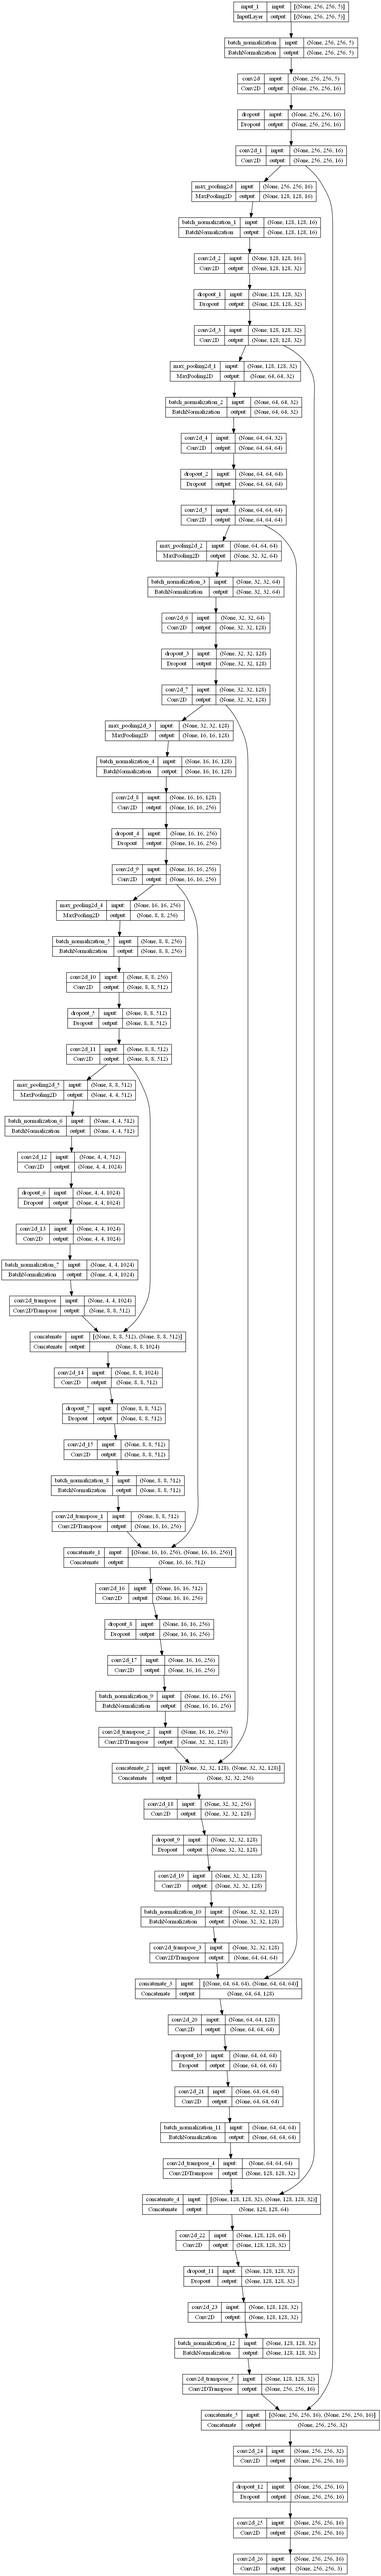
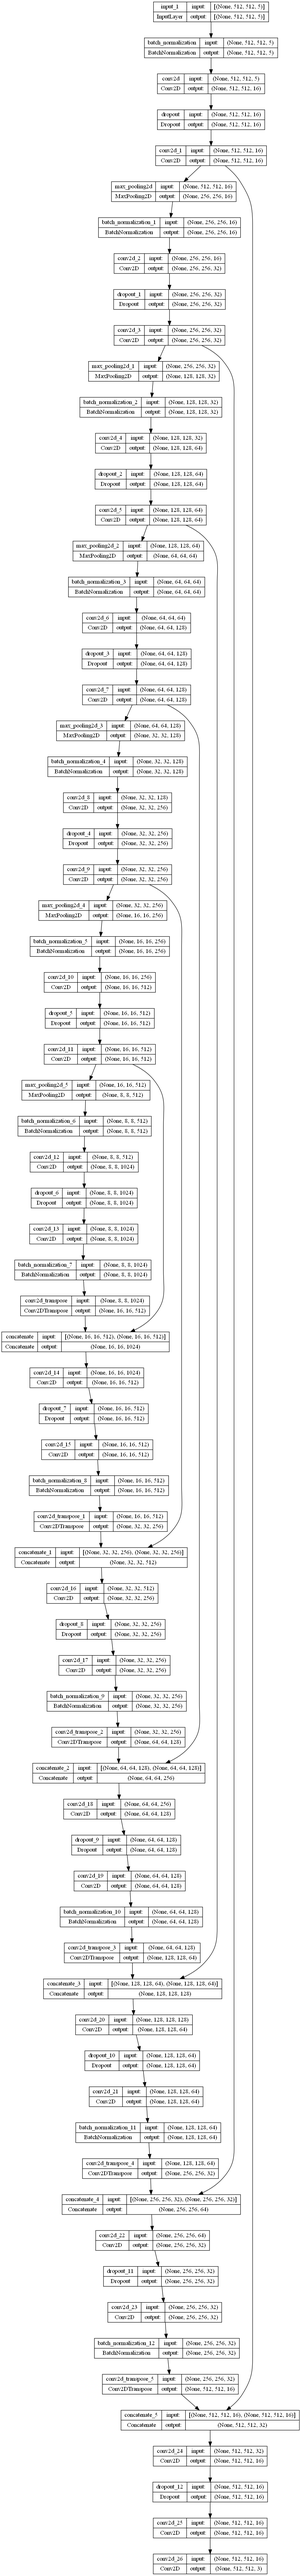
train model with 512 size

Changed region(s): [[0.0302, 0.0, 0.9061, 1.0], [0.8155, 0.0934, 0.8759, 0.9032]]

diff --git a/models/wsl/data.py b/models/wsl/data.py
@@ -6,7 +6,7 @@ from tqdm import tqdm
 import random
 import os
 
-from models.common_utils.images import load_ndwi_edge_map
+from models.common_utils.images import load_ndwi_edge_map, stack_rgb_ndwi_edges
 
 def load_drone_dataset(path, file_extension = "jpg", num_channels=5):
     total_images = len(os.listdir(path))
@@ -22,44 +22,49 @@ def load_drone_dataset(path, file_extension = "jpg", num_channels=5):
     x_test, y_test = load_drone_images(test_paths, channels=num_channels)
     return (x_train, y_train),(x_test, y_test)
 
-def load_drone_images(paths, channels=3):
-    images = np.zeros(shape=(len(paths), 256, 256, channels))
-    masks = np.zeros(shape=(len(paths), 256, 256, 3))
+def load_drone_images(size, paths, channels=3):
+    (width, height) = size
+    images = np.zeros(shape=(len(paths), height, width, channels))
+    masks = np.zeros(shape=(len(paths), height, width, 3))
     for i, path in tqdm(enumerate(paths), total=len(paths), desc="Loading"):
-        image = get_image(path)
+        image = get_image(size, path)
         images[i] = image
         mask_path = path.replace("images", "annotations")
         mask_path = mask_path.replace(".jpg", ".png")
-        mask = load_image(mask_path)
+        mask = load_image(size, mask_path)
         masks[i] = mask
     return images, masks
 
-def load_image(path: str):
+def load_image(size, path: str):
     img = load_img(path)
     img_array = img_to_array(img)
     normalized_img_array = img_array/255.
-    resized_img = tf.image.resize(normalized_img_array, (256, 256), method=tf.image.ResizeMethod.NEAREST_NEIGHBOR)
+    resized_img = tf.image.resize(normalized_img_array, size, method=tf.image.ResizeMethod.NEAREST_NEIGHBOR)
     return resized_img
 
-def format_image(img):
+def format_image(size, img):
     img_array = img_to_array(img)
     normalized_img_array = img_array/255.
-    resized_img = tf.image.resize(normalized_img_array, (256, 256), method=tf.image.ResizeMethod.NEAREST_NEIGHBOR)
+    resized_img = tf.image.resize(normalized_img_array, size, method=tf.image.ResizeMethod.NEAREST_NEIGHBOR)
     return resized_img
 
-def get_image(path):
+def get_image(size, path):
     image_data = load_ndwi_edge_map(path)
-    rgb = format_image(image_data['rgb'])
+    rgb = format_image(size, image_data['rgb'])
     # print(f'RGB shape: {rgb.shape}')
-    ndwi = format_image(image_data['ndwi'])
+    ndwi = format_image(size, image_data['ndwi'])
     # print(f'NDWI shape: {ndwi.shape}')
-    edges = format_image(image_data['edge_map'])
+    edges = format_image(size, image_data['edge_map'])
     # print(f'EDGE map shape: {edges.shape}')
     stacked_image = np.dstack((rgb, ndwi, edges))
     # print(f'Stacked image shape: {stacked_image.shape}')
     return stacked_image
 
-def load_dataset(path, file_extension = "JPG", num_channels=5, percentage=0.7):
+def get_stacked_image(path, size):
+    stacked_image = stack_rgb_ndwi_edges(path)
+    return stacked_image
+
+def load_dataset(path, size = (256, 256), file_extension = "JPG", num_channels=5, percentage=0.7):
     total_images = len(os.listdir(path))
     print(f'total number of images in path is {total_images}')
     all_image_paths = sorted(glob(path + "/*."+file_extension))
@@ -68,15 +73,16 @@ def load_dataset(path, file_extension = "JPG", num_channels=5, percentage=0.7):
     train_size = int(len(all_image_paths) * percentage)
     train_paths = all_image_paths[:train_size]
     print(f"train image count : {len(train_paths)}")
-    x_train, y_train = load_drone_images(train_paths, channels=num_channels)
+    x_train, y_train = load_drone_images(size, train_paths, channels=num_channels)
     test_paths = all_image_paths[train_size:]
     print(f"test image count : {len(test_paths)}")
-    x_test, y_test = load_drone_images(test_paths, channels=num_channels)
+    x_test, y_test = load_drone_images(size, test_paths, channels=num_channels)
     return (x_train, y_train),(x_test, y_test)
 
 if __name__ == "__main__":
     sample_image = "../../data/samples/sample1.JPG"
-    get_image(sample_image)
-    img = load_image(sample_image)
+    size = (256, 256)
+    get_image(size, sample_image)
+    img = load_image(size, sample_image)
     print(f'Image shape: {img.shape}')
 

diff --git a/models/wsl/train_model.py b/models/wsl/train_model.py
@@ -20,7 +20,7 @@ LOG_DIR = "C:\\Users\AdikariAdikari\PycharmProjects\Segmentation\models\\wsl\log
 CKPT_DIR = "C:\\Users\AdikariAdikari\PycharmProjects\Segmentation\models\\wsl\ckpt"
 OUTPUT_DIR = "C:\\Users\AdikariAdikari\PycharmProjects\Segmentation\models\\wsl\output"
 
-def train_model(epoch_count, X_train, y_train, X_val, y_val, num_channels, restore=True):
+def train_model(epoch_count, X_train, y_train, X_val, y_val, num_channels, size = (256, 256), restore=True):
     print(f'X_train shape : {X_train.shape}')
     print(f'y_train shape : {y_train.shape}')
 
@@ -42,7 +42,7 @@ def train_model(epoch_count, X_train, y_train, X_val, y_val, num_channels, resto
     print("Number of devices: {}".format(strategy.num_replicas_in_sync))
 
     with strategy.scope():
-        model = make_or_restore_model(restore, num_channels)
+        model = make_or_restore_model(restore, num_channels, size)
 
     history = model.fit(
                     X_train,
@@ -70,7 +70,8 @@ def train_model(epoch_count, X_train, y_train, X_val, y_val, num_channels, resto
     plt.show()
     return None
 
-def make_or_restore_model(restore, num_channels):
+def make_or_restore_model(restore, num_channels, size):
+    (width, height) = size
     if restore:
         checkpoints = [os.path.join(CKPT_DIR, name) for name in os.listdir("ckpt")]
         print(f"Checkpoints: {checkpoints}")
@@ -80,10 +81,10 @@ def make_or_restore_model(restore, num_channels):
             return keras.models.load_model(latest_checkpoint)
         else:
             print("Creating fresh model")
-            return unet_model(256, 256, num_channels)
+            return unet_model(width, height, num_channels)
     else:
         print("Creating fresh model")
-        return unet_model(256, 256, num_channels)
+        return unet_model(width, height, num_channels)
 
 def load_with_trained_model(X_val, y_val):
     checkpoints = [os.path.join(CKPT_DIR, name) for name in os.listdir("ckpt")]
@@ -139,7 +140,7 @@ if __name__ == "__main__":
     print(tf.executing_eagerly())
     epochs = 100
     if len(physical_devices) > 0:
-        (X_train, y_train), (X_val, y_val) = load_dataset("../../input/samples/crookstown/images", file_extension="jpg", num_channels=5, percentage=0.7)
-        # train_model(epochs, X_train, y_train, X_val, y_val, 5, restore=False)
+        (X_train, y_train), (X_val, y_val) = load_dataset("../../input/samples/crookstown/images", size = (512, 512), file_extension="jpg", num_channels=5, percentage=0.7)
+        train_model(epochs, X_train, y_train, X_val, y_val, 5, size = (512, 512), restore=False)
         load_with_trained_model(X_val, y_val)
 

diff --git a/models/wsl/model.py b/models/wsl/model.py
@@ -73,7 +73,7 @@ def unet_model(image_width, image_height, image_channels):
 
 
 if __name__ == '__main__':
-    unet_model(256, 256, 3)
+    unet_model(512, 512, 5)
 
 
 
